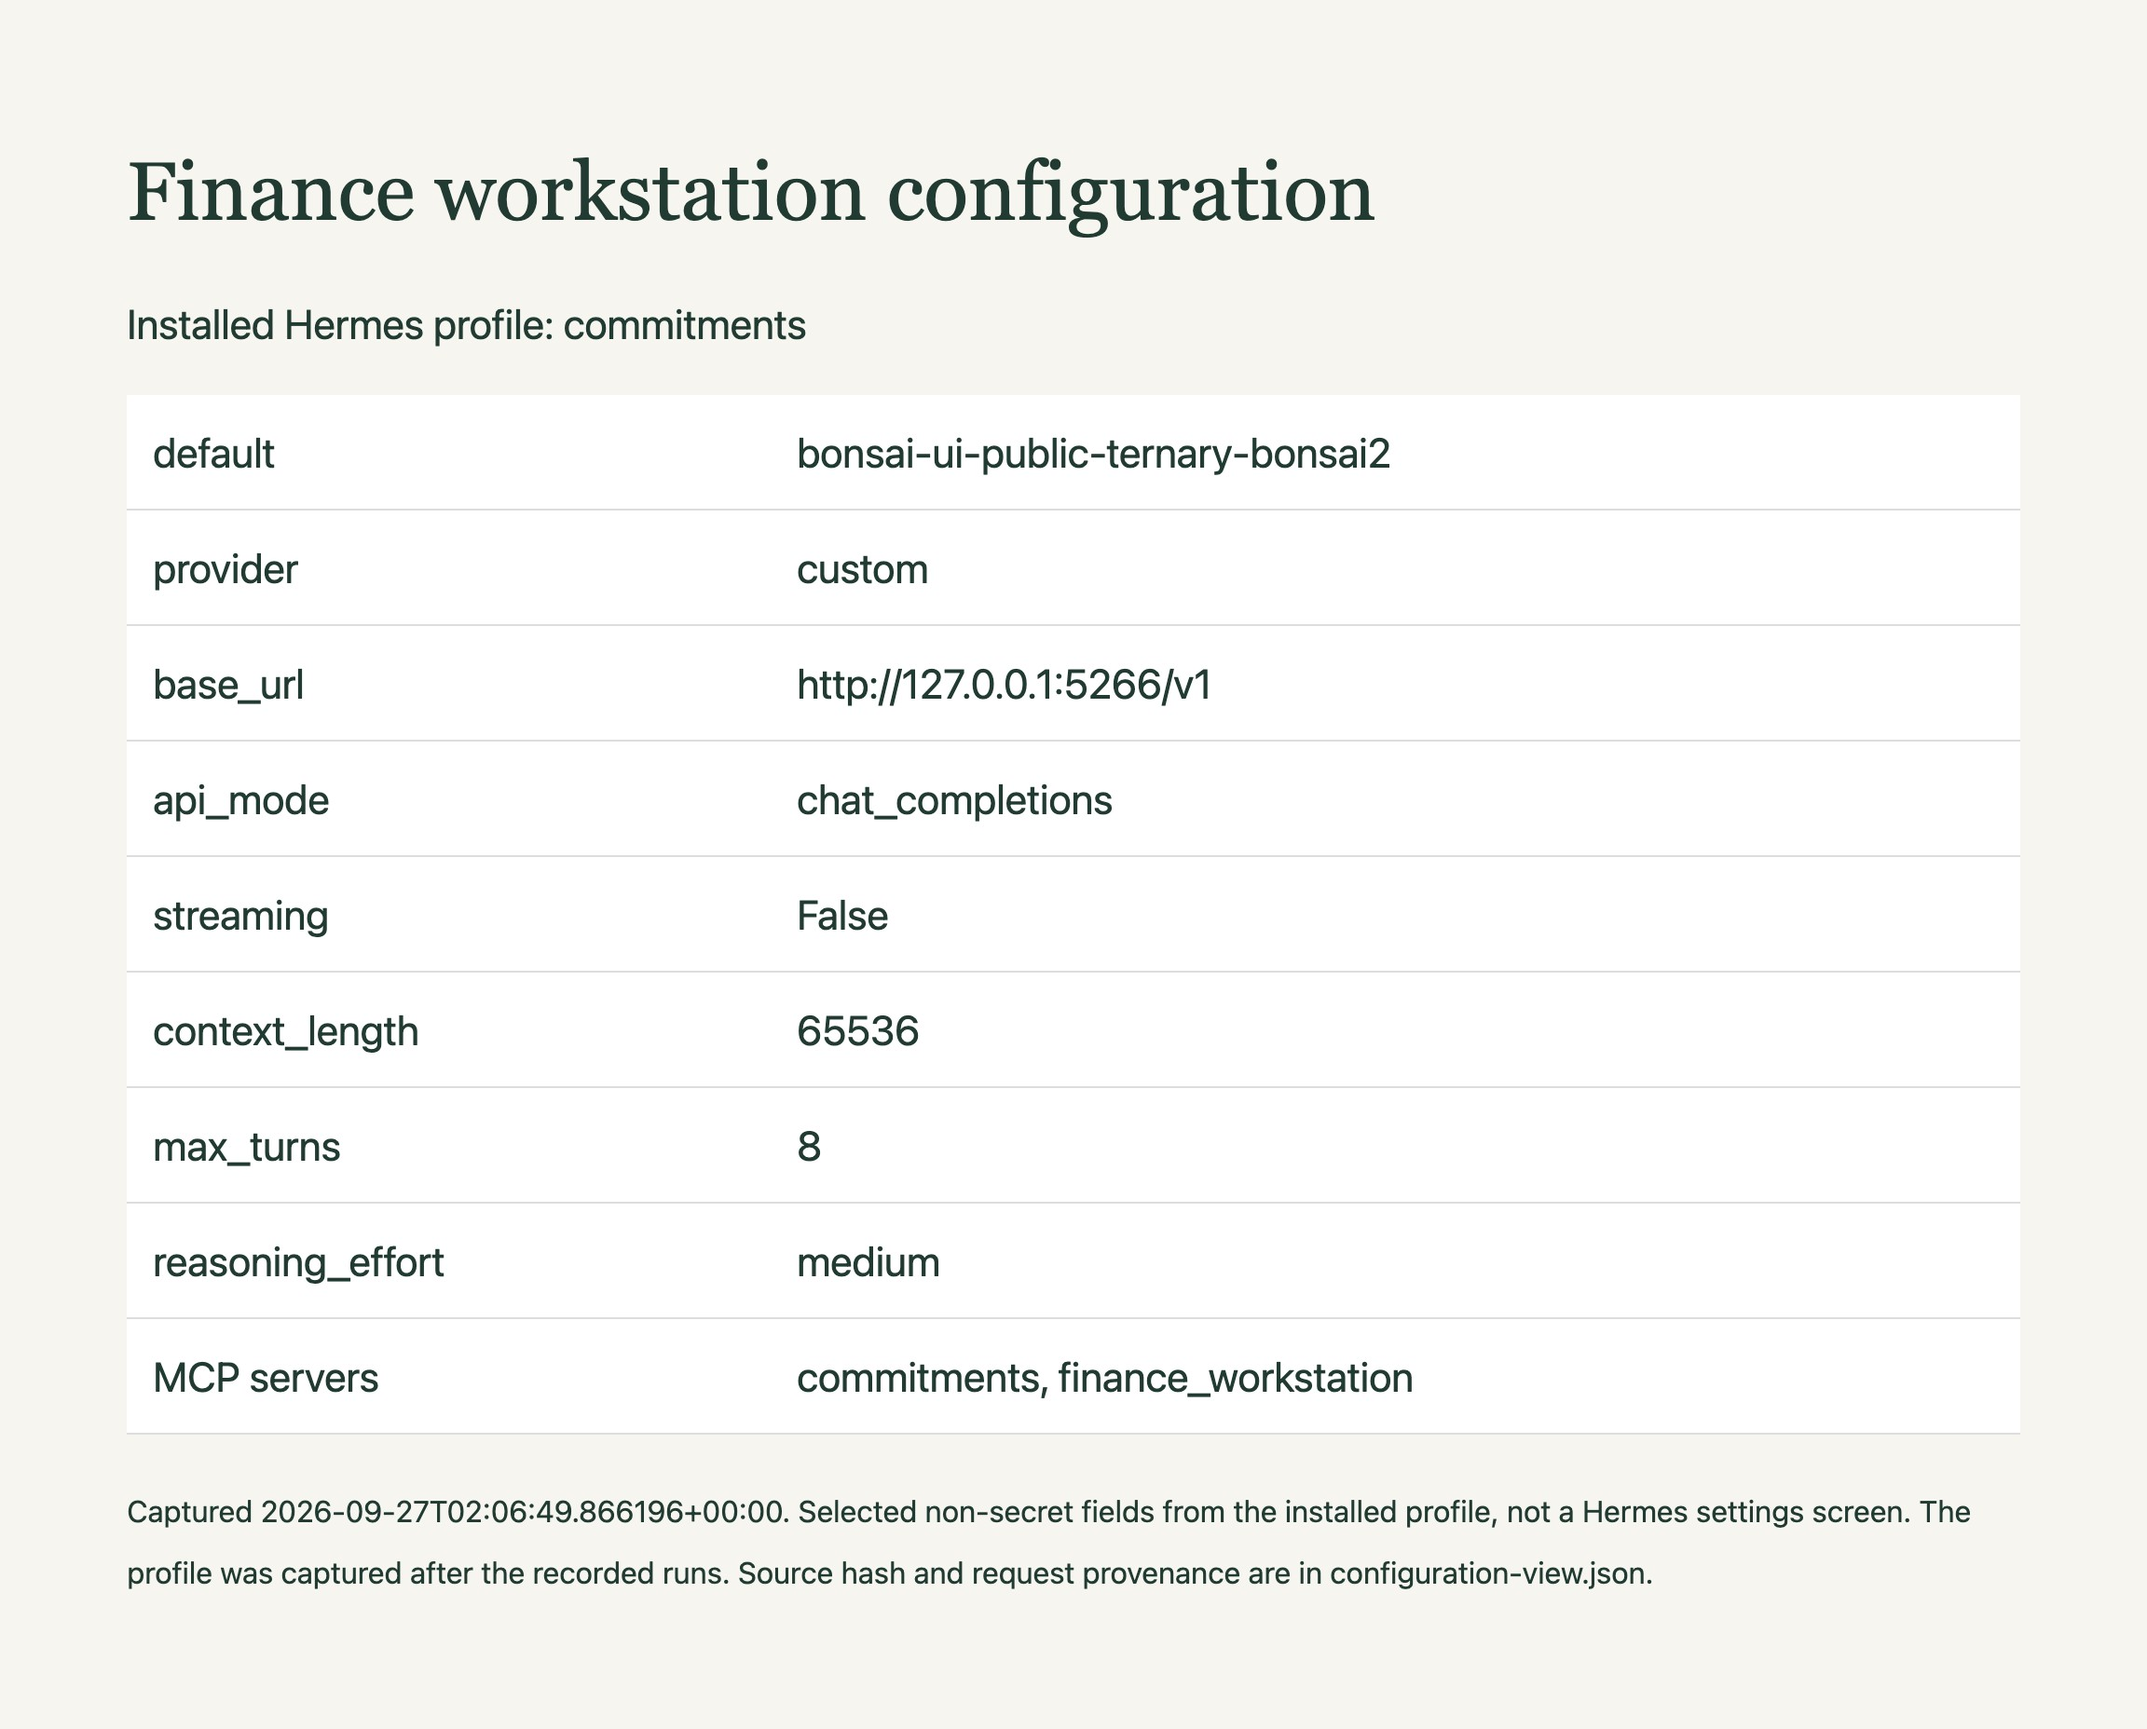
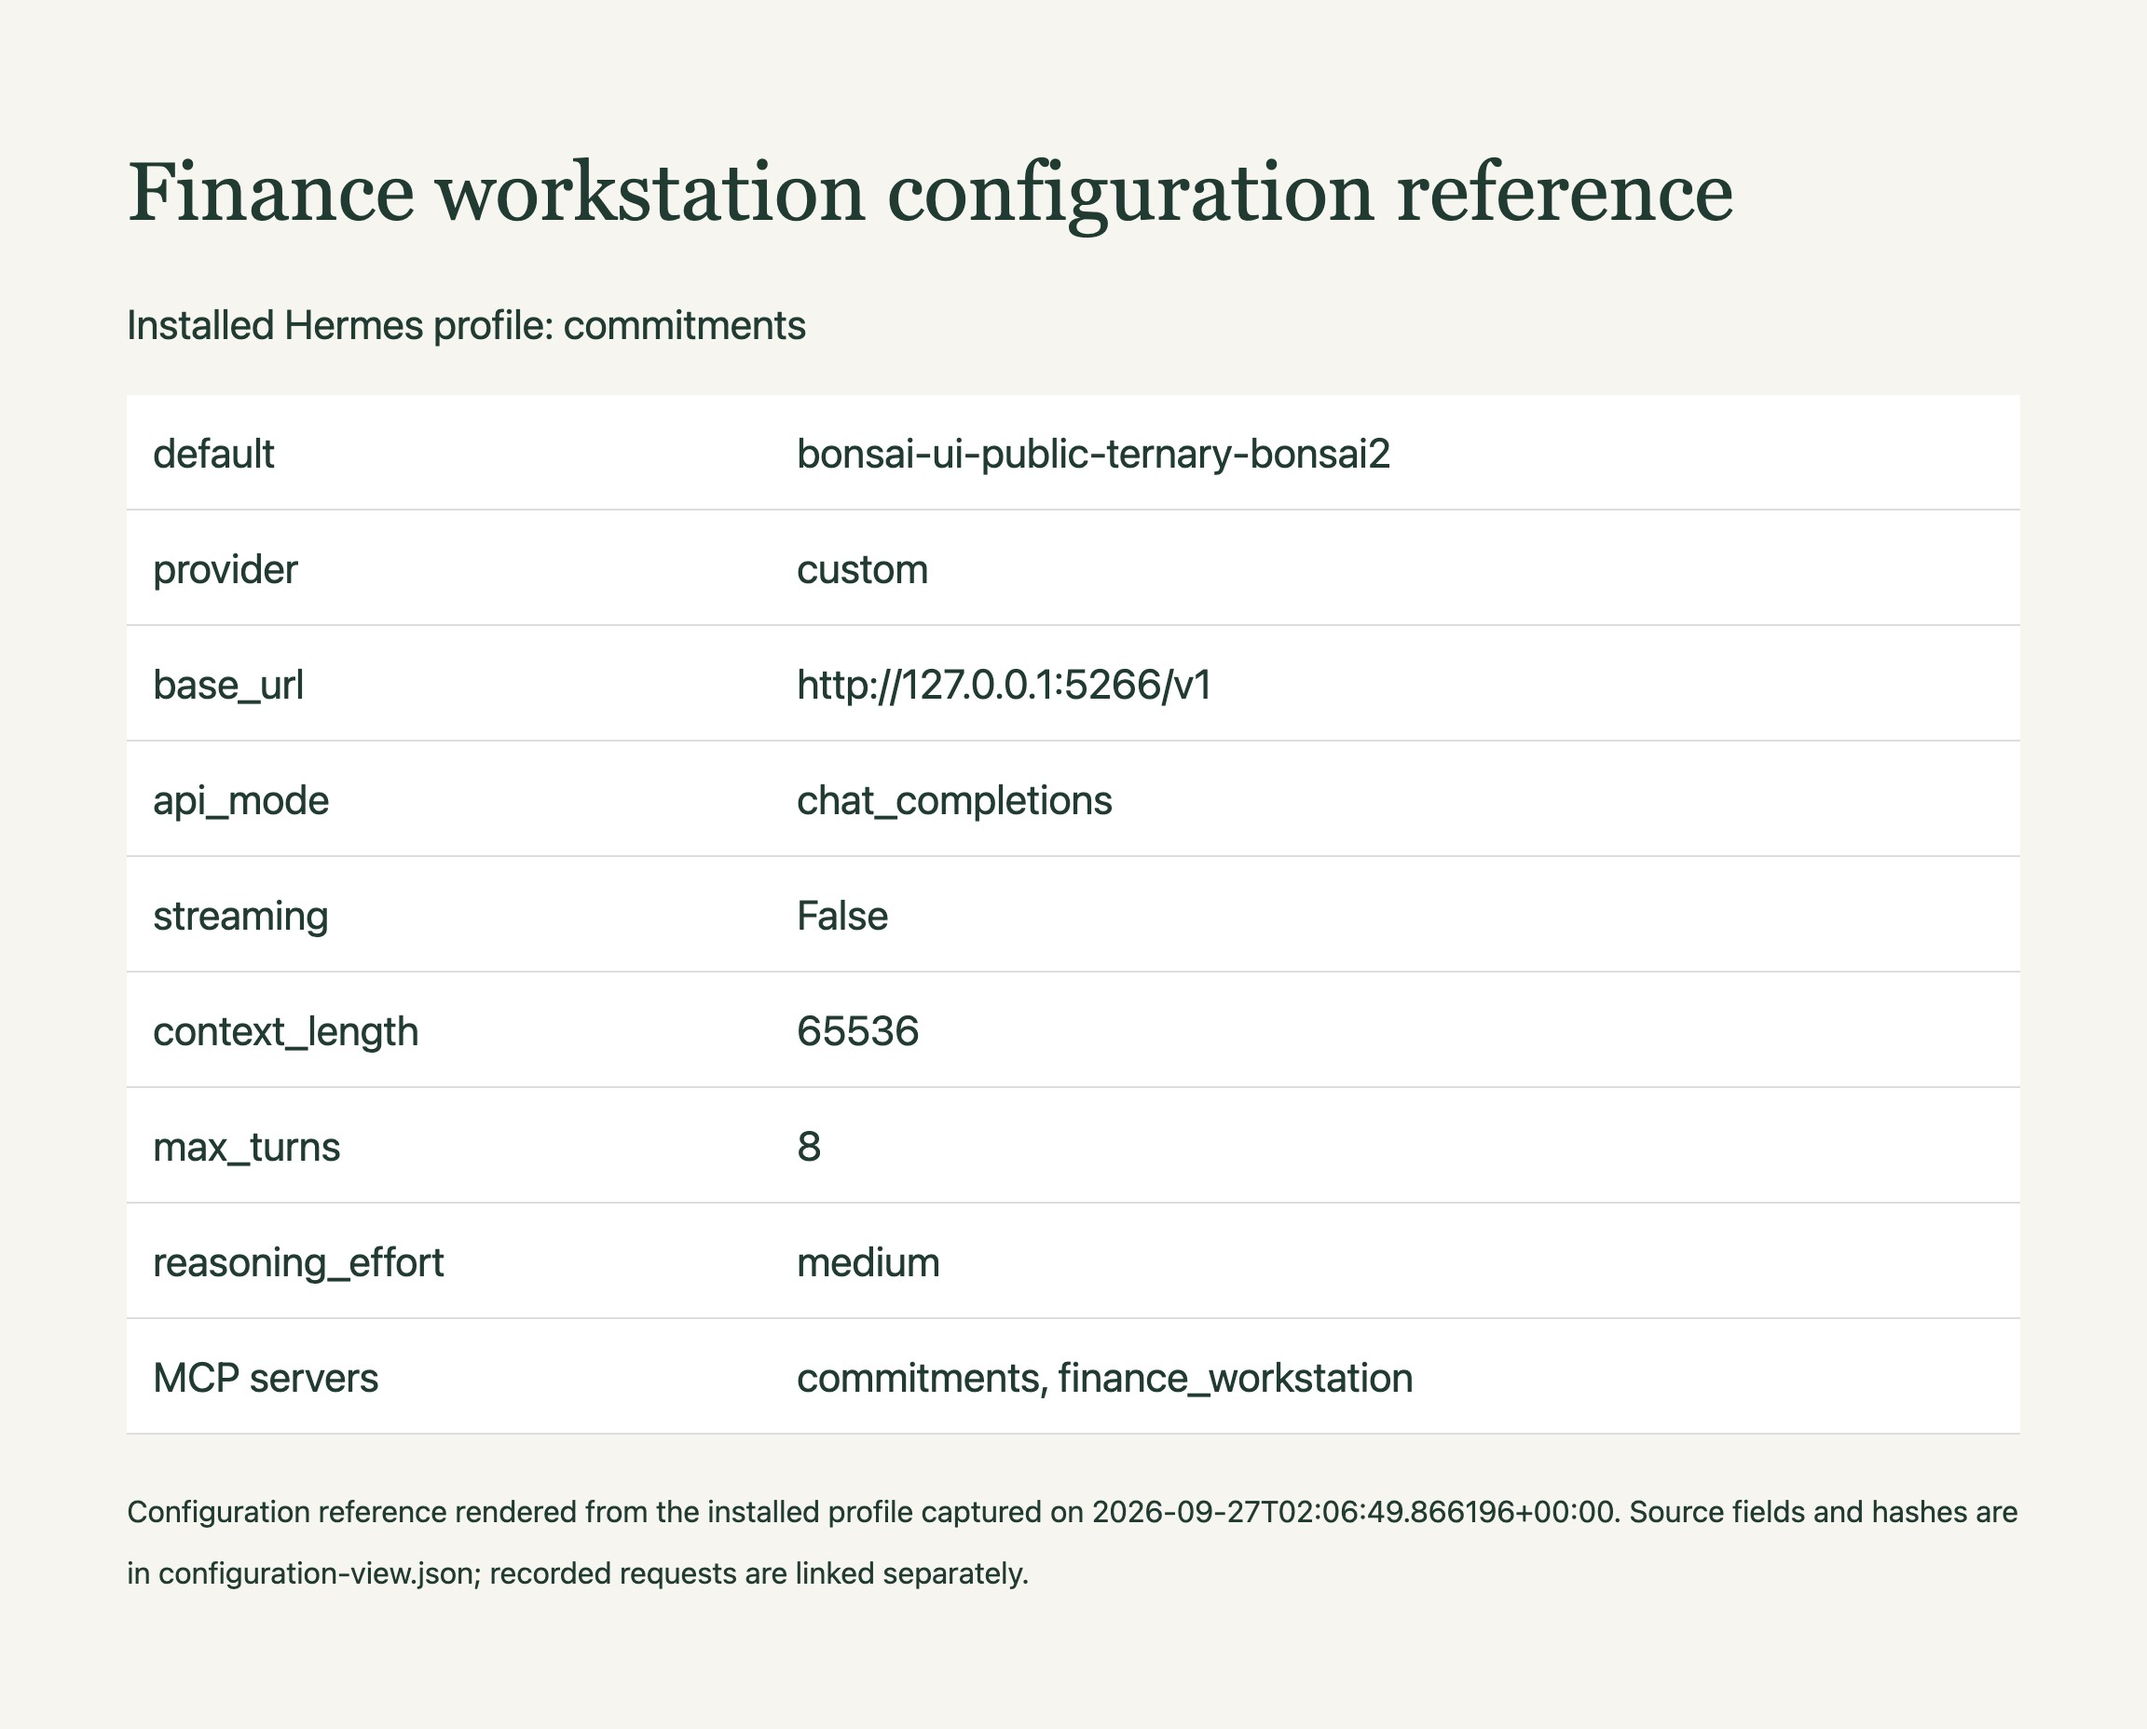
Clarify configuration provenance captions

Changed region(s): [[0.0625, 0.8438, 0.8125, 0.9375], [0.6562, 0.0938, 0.8125, 0.125], [0.8438, 0.875, 0.9375, 0.9062]]

diff --git a/evidence/configuration-view.html b/evidence/configuration-view.html
@@ -1,1 +1,1 @@
-<!doctype html><html><meta charset="utf-8"><title>finance-workstation configuration</title><style>body{font:22px/1.5 system-ui;background:#f6f5ef;color:#173b31;padding:40px 60px}h1{font:44px Georgia}table{width:100%;border-collapse:collapse;background:white}td{padding:14px;border-bottom:1px solid #ddd}td:first-child{width:34%}small{font-size:16px}pre{font-size:18px}</style><h1>Finance workstation configuration</h1><p>Installed Hermes profile: commitments</p><table><tr><td>default</td><td>bonsai-ui-public-ternary-bonsai2</td></tr><tr><td>provider</td><td>custom</td></tr><tr><td>base_url</td><td>http://127.0.0.1:5266/v1</td></tr><tr><td>api_mode</td><td>chat_completions</td></tr><tr><td>streaming</td><td>False</td></tr><tr><td>context_length</td><td>65536</td></tr><tr><td>max_turns</td><td>8</td></tr><tr><td>reasoning_effort</td><td>medium</td></tr><tr><td>MCP servers</td><td>commitments, finance_workstation</td></tr></table><p><small>Captured 2026-09-27T02:06:49.866196+00:00. Selected non-secret fields from the installed profile, not a Hermes settings screen. The profile was captured after the recorded runs. Source hash and request provenance are in configuration-view.json.</small></p></html>
+<!doctype html><html><meta charset="utf-8"><title>finance-workstation configuration</title><style>body{font:22px/1.5 system-ui;background:#f6f5ef;color:#173b31;padding:40px 60px}h1{font:44px Georgia}table{width:100%;border-collapse:collapse;background:white}td{padding:14px;border-bottom:1px solid #ddd}td:first-child{width:34%}small{font-size:16px}pre{font-size:18px}</style><h1>Finance workstation configuration reference</h1><p>Installed Hermes profile: commitments</p><table><tr><td>default</td><td>bonsai-ui-public-ternary-bonsai2</td></tr><tr><td>provider</td><td>custom</td></tr><tr><td>base_url</td><td>http://127.0.0.1:5266/v1</td></tr><tr><td>api_mode</td><td>chat_completions</td></tr><tr><td>streaming</td><td>False</td></tr><tr><td>context_length</td><td>65536</td></tr><tr><td>max_turns</td><td>8</td></tr><tr><td>reasoning_effort</td><td>medium</td></tr><tr><td>MCP servers</td><td>commitments, finance_workstation</td></tr></table><p><small>Configuration reference rendered from the installed profile captured on 2026-09-27T02:06:49.866196+00:00. Source fields and hashes are in configuration-view.json; recorded requests are linked separately.</small></p></html>

diff --git a/docs/recorded-configuration.md b/docs/recorded-configuration.md
@@ -2,8 +2,8 @@
 
 ![Selected installed Hermes configuration](images/configuration.jpg)
 
-The image shows selected fields from the installed `commitments` profile. It is a configuration reference rendered from actual saved settings, not a Hermes application screen. The [source record](../evidence/configuration-view.json) includes the capture time and SHA-256 of the source profile. Credentials, tool environments and local paths are excluded. The profile was captured after the runs, so it does not independently prove the exact configuration of an earlier run.
+The image is a configuration reference rendered from selected fields in the installed `commitments` profile. The [source record](../evidence/configuration-view.json) records the capture time and profile hash. This snapshot was captured after the runs; use the linked HTTP exchanges to inspect settings applied to a recorded request.
 
 Create an isolated profile with the repository setup command, then inspect its model endpoint and MCP tool paths before starting the gateway or scheduler. Setup templates and the installed profile can differ. A service using an existing profile must reload after its configuration changes.
 
-The model alias alone does not establish the GGUF, runtime build or effective sampling values. Use the launch guide and recorded HTTP requests to check those separately. No matched optimization or cost reduction is established by this screenshot.
+Use the launch guide to match the GGUF and runtime build, then inspect the recorded HTTP request for the effective sampling values.
